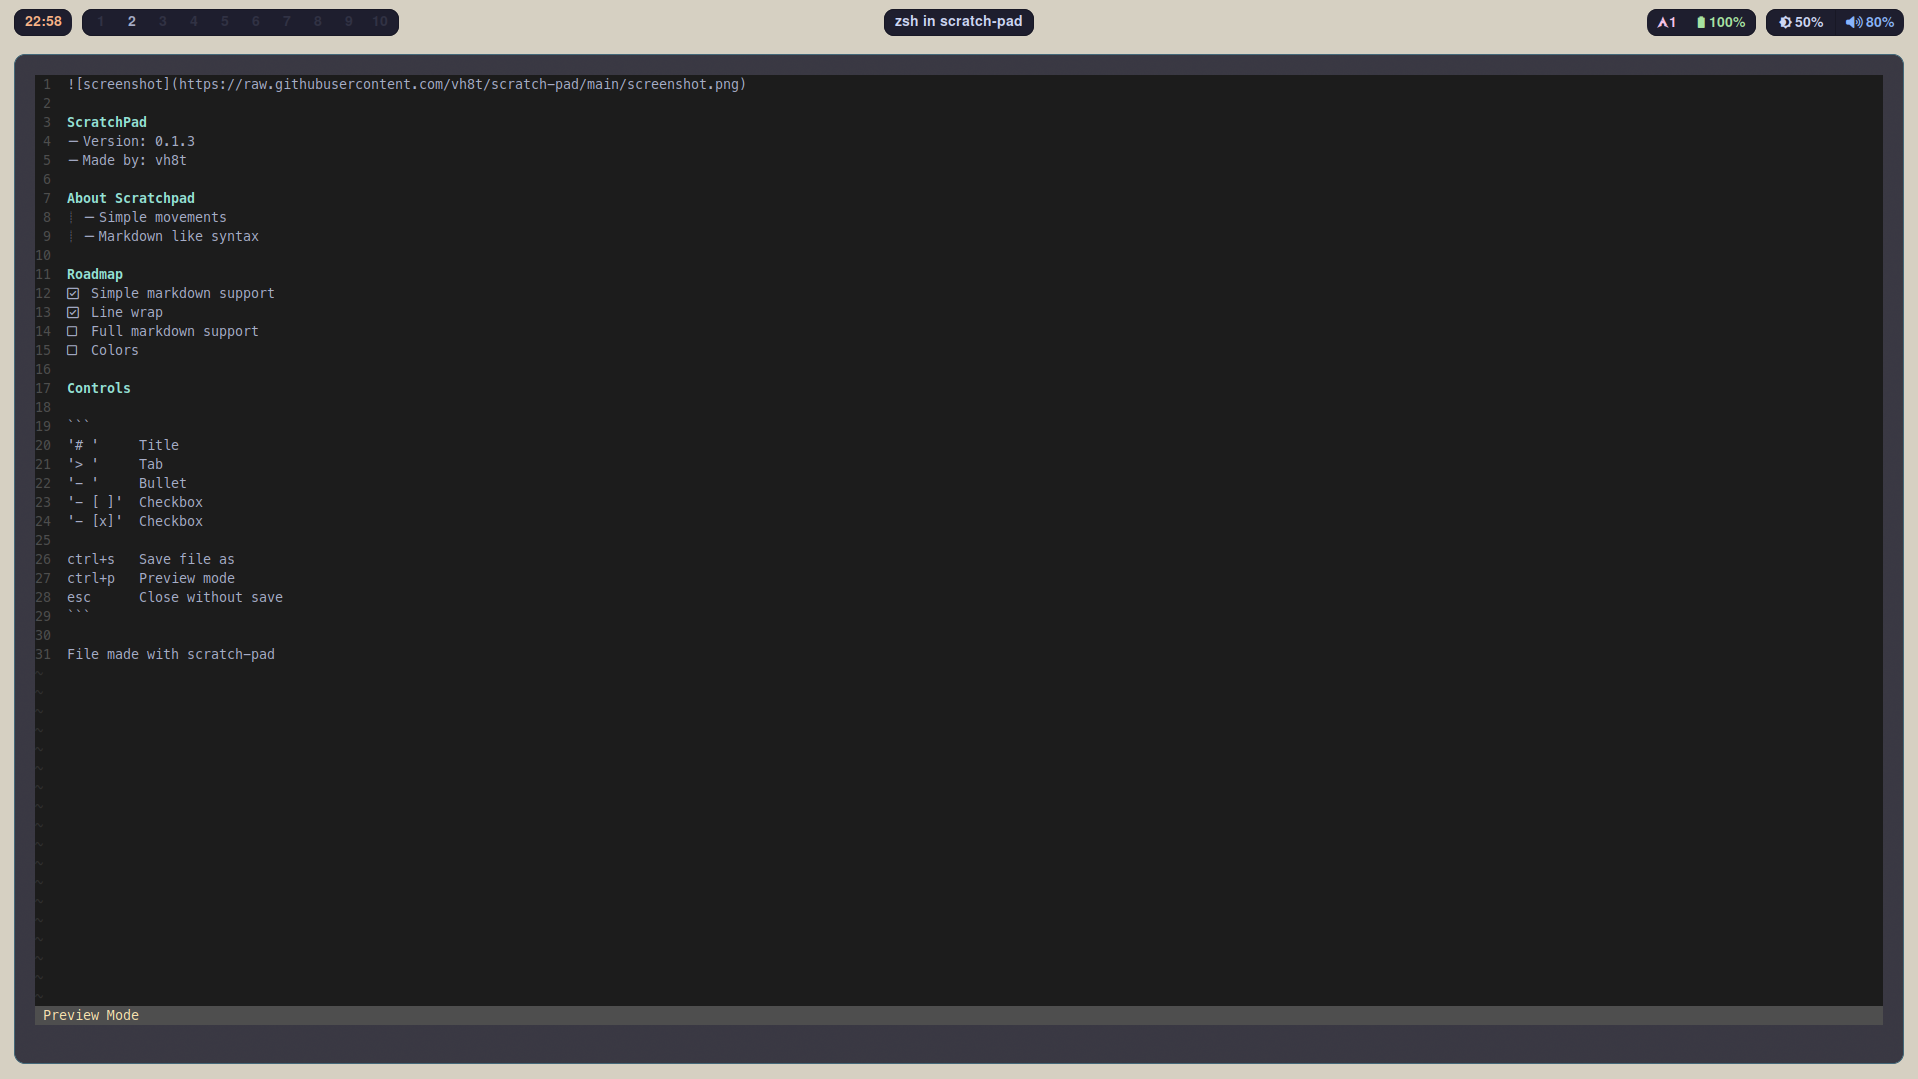
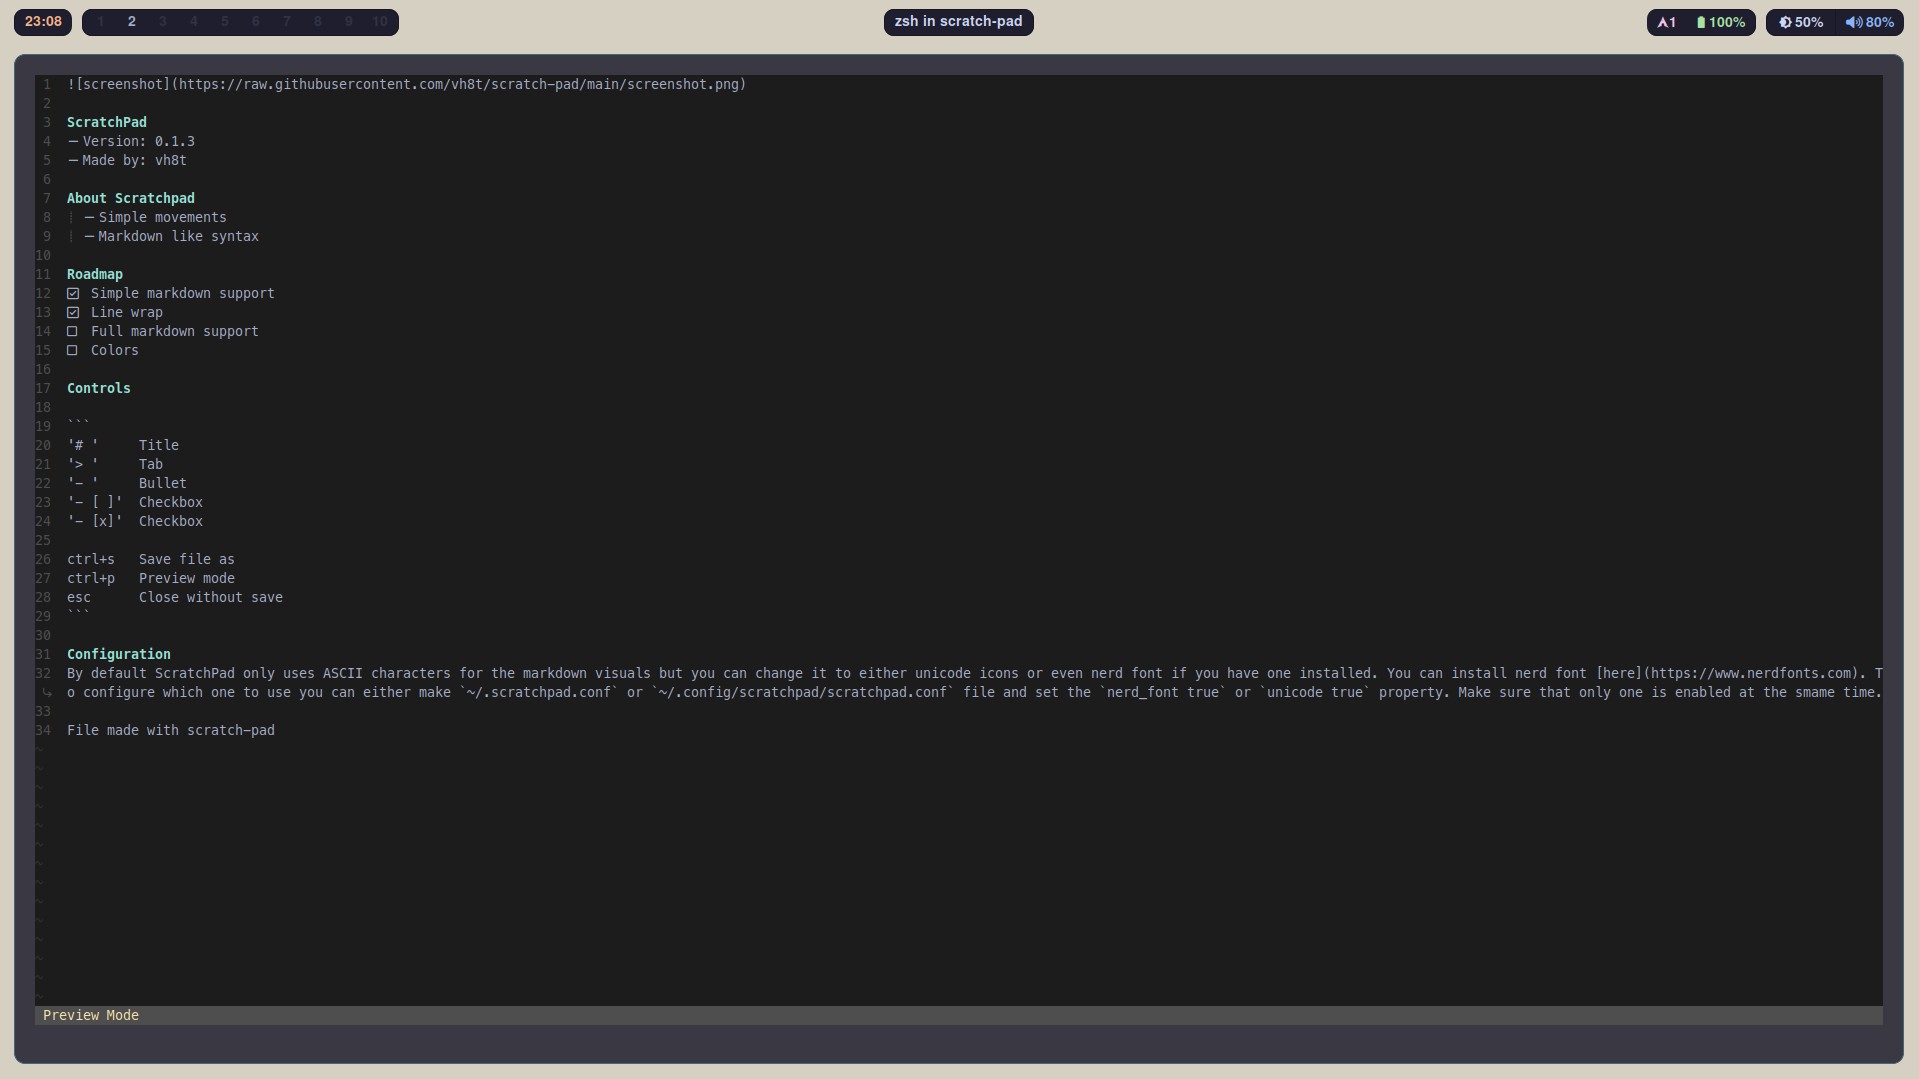
Add files via upload

diff --git a/README.md b/README.md
@@ -28,4 +28,7 @@ ctrl+p   Preview mode
 esc      Close without save
 ```
 
+# Configuration
+By default ScratchPad only uses ASCII characters for the markdown visuals but you can change it to either unicode icons or even nerd font if you have one installed. You can install nerd font [here](https://www.nerdfonts.com). To configure which one to use you can either make `~/.scratchpad.conf` or `~/.config/scratchpad/scratchpad.conf` file and set the `nerd_font true` or `unicode true` property. Make sure that only one is enabled at the smame time.
+
 File made with scratch-pad
